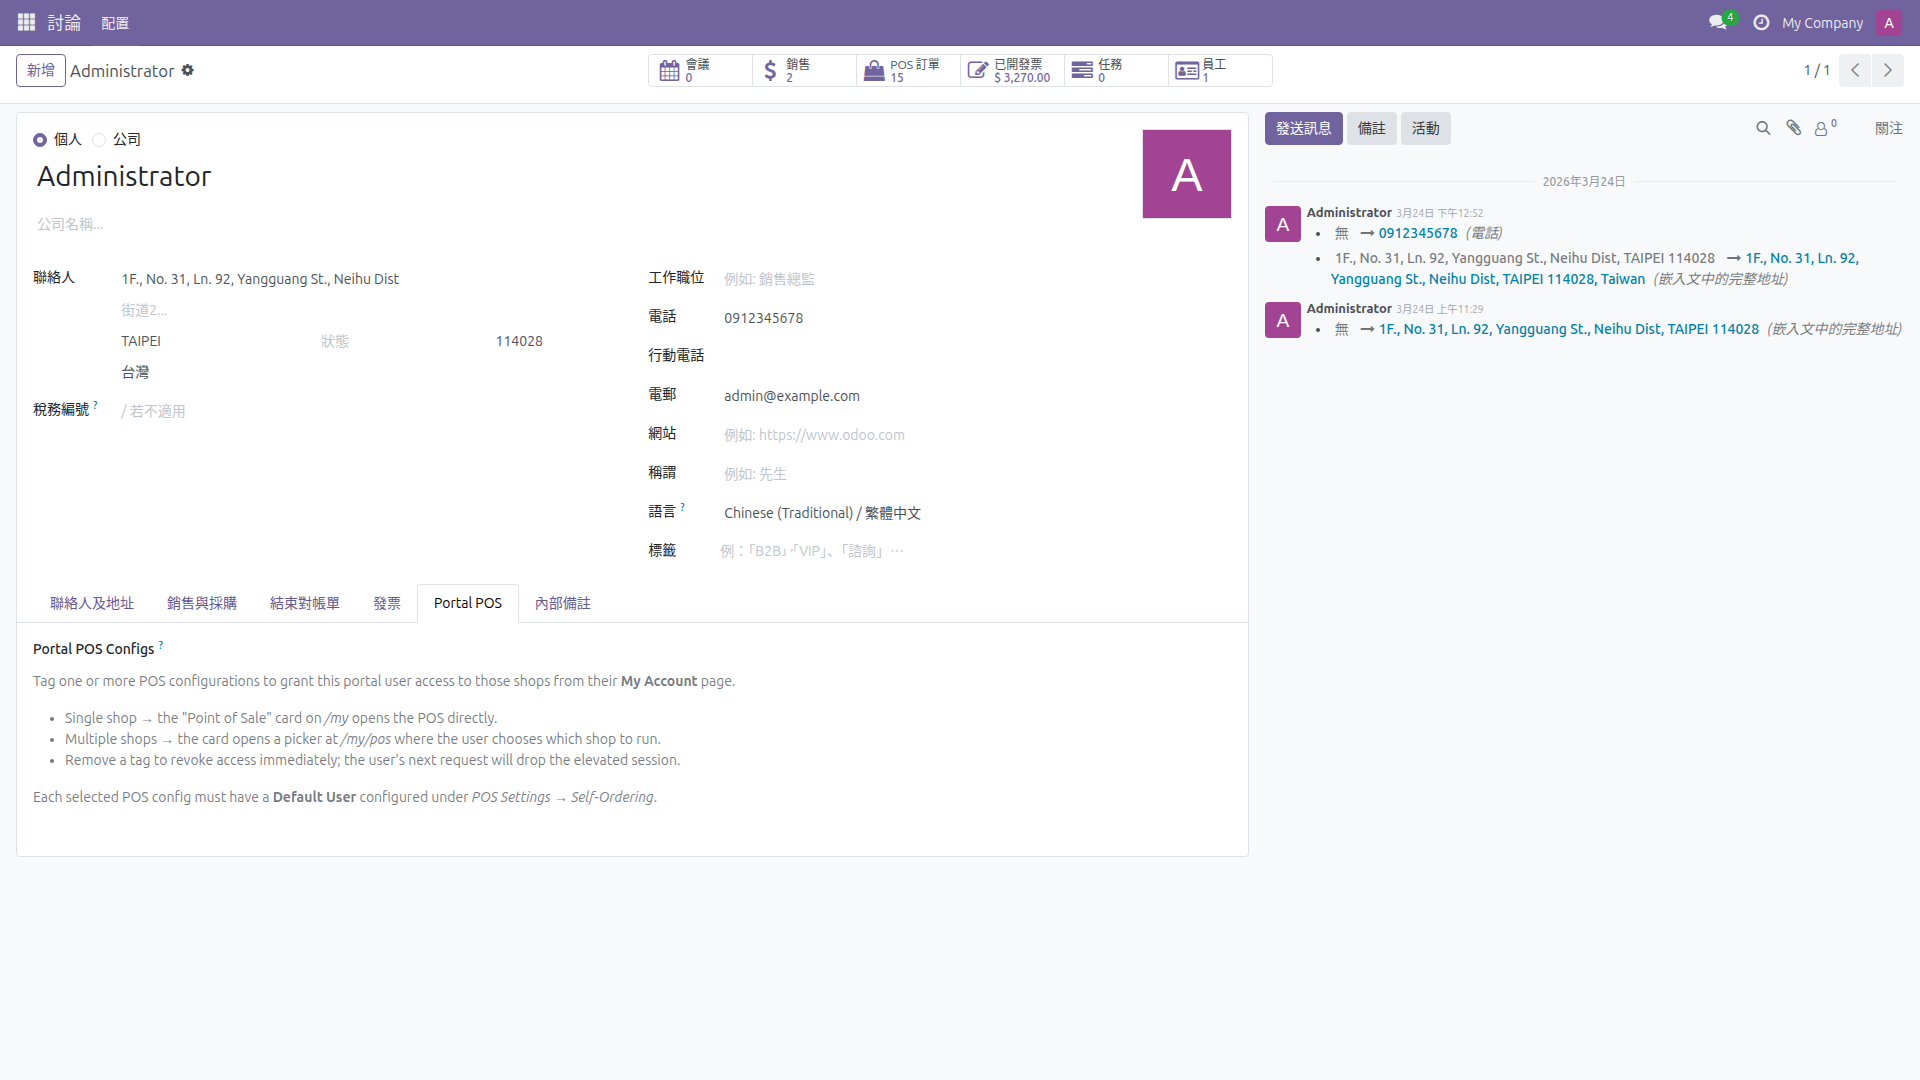
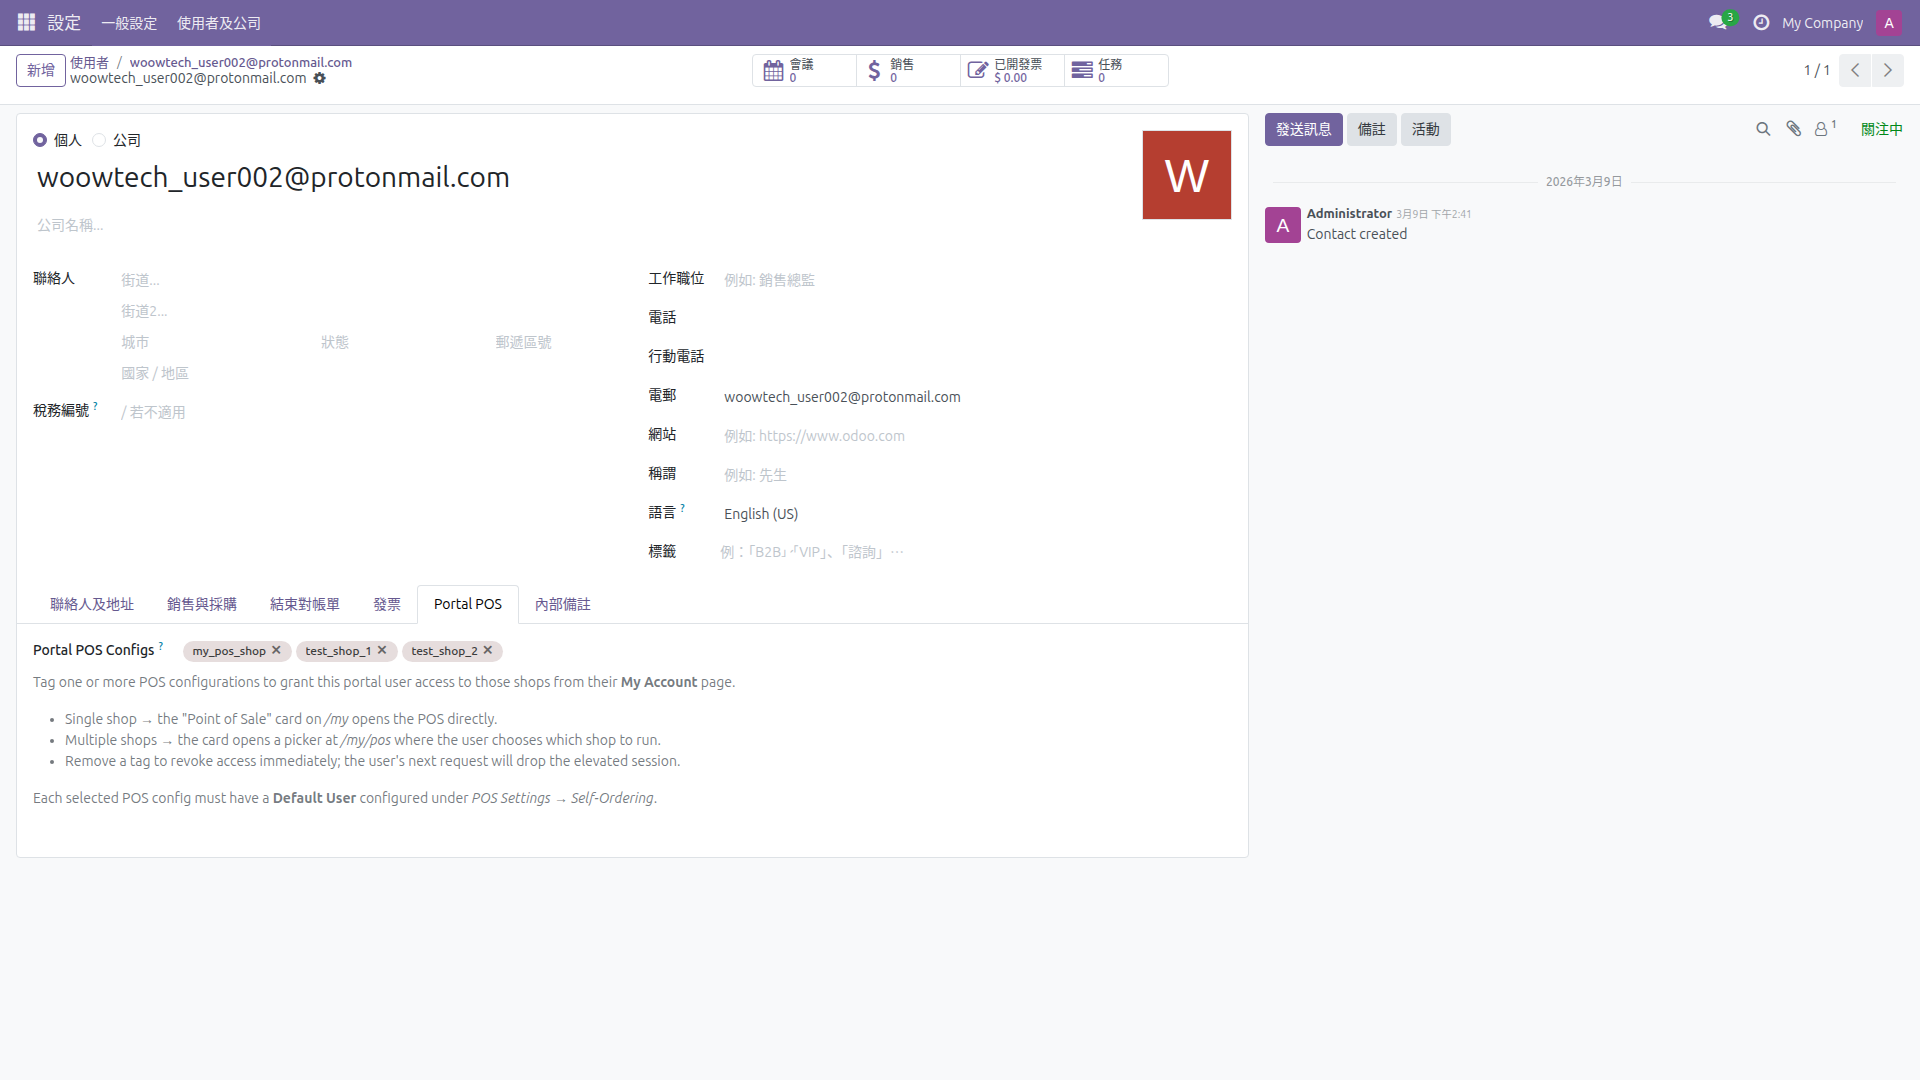
Rewrite Chapter 5: correct Portal POS setup path and screenshots
- Fix admin setup path: Settings > Users > Related Partner > Portal POS
- Replace 4 incorrect sections with 2 accurate ones (admin setup + portal user access)
- New screenshots from live Odoo: partner Portal POS tab and portal /my page
- Update Table of Contents in both manuals
- Fix appendix Portal POS assignment path

diff --git a/docs/user_manual_en.md b/docs/user_manual_en.md
@@ -44,11 +44,9 @@
   - [4.5 Auto Issuance](#45-auto-issuance)
   - [4.6 Tax ID Lookup](#46-tax-id-lookup)
   - [4.7 POS Receipt Integration](#47-pos-receipt-integration)
-- [Chapter 5: Customer Portal](#chapter-5-customer-portal)
-  - [5.1 Order History](#51-order-history)
-  - [5.2 Store Picker](#52-store-picker)
-  - [5.3 Payment Retry](#53-payment-retry)
-  - [5.4 Portal POS Cashier](#54-portal-pos-cashier)
+- [Chapter 5: Portal POS Access](#chapter-5-portal-pos-access)
+  - [5.1 Admin Setup: Grant Portal User Access to POS](#51-admin-setup-grant-portal-user-access-to-pos)
+  - [5.2 Portal User: Access POS from /my Page](#52-portal-user-access-pos-from-my-page)
 
 ---
 
@@ -980,117 +978,58 @@ Prints e-invoice data directly on ESC/POS receipts, including invoice number, ca
 
 ---
 
-## Chapter 5: Customer Portal
+## Chapter 5: Portal POS Access
 
-This chapter covers features that allow portal users (customers with Odoo portal accounts) to interact with POS orders through the website.
-
-![Portal My POS Card](screenshots/en/portal-my-pos-card.png)
+This chapter covers how to grant portal users (e.g., franchisees, partners) access to operate the POS cashier interface remotely through the Odoo portal.
 
 ---
 
-### 5.1 Order History
+### 5.1 Admin Setup: Grant Portal User Access to POS
 
-Portal users can view their past POS orders from the customer portal.
-
-![Portal Home](screenshots/en/portal-my-pos-card.png)
+Administrators assign POS shop access to portal users through the user's related partner record.
 
 **Setup**
 
-1. Ensure the customer has a portal user account in Odoo.
-2. No additional configuration is needed. The order history is available by default once the module is installed.
+1. Navigate to **Settings > Users & Companies > Users**.
+2. Select the portal user (e.g., `woowtech_user002@protonmail.com`).
+3. Click the **Related Partner** button (at the top of the user form) to open the partner record.
+4. Click the **Portal POS** tab.
+5. In the **Portal POS Configs** field, add the POS configuration(s) this user should have access to.
+6. Click **Save**.
 
-**Usage**
+![Partner Portal POS Tab](screenshots/en/partner-portal-pos.png)
 
-- The customer logs into the Odoo portal at `/my`.
-- A **Point of Sale** card appears on the portal home page.
-- Clicking it shows a list of the customer's past POS orders with details such as date, items, and total amount.
+> **Important:** Each POS configuration must have a **Default User** set under **Point of Sale > Configuration > Settings > Mobile self-order & Kiosk**. This internal user's permissions are used when the portal user operates the POS.
 
 **Troubleshooting**
 
-- If the Point of Sale card does not appear in the portal, verify the module is installed and the user has portal access.
-- Customers can only see orders associated with their partner record. If orders are missing, check that the order's partner matches the portal user.
+- If the **Portal POS** tab does not appear on the partner form, verify that the `pos_self_order_enhancement` module is installed.
+- If no POS configurations appear in the dropdown, ensure at least one POS shop exists and is active.
+- The portal user must have an active portal account (not just a contact record).
 
 ---
 
-### 5.2 Store Picker
+### 5.2 Portal User: Access POS from /my Page
 
-Enables multi-location support by allowing administrators to assign specific POS configurations (shops) to individual portal users. Customers access a store picker page to choose their shop.
-
-**Setup**
-
-1. Open the **Contacts** app (or navigate to the URL `/odoo/contacts`) and open the partner (customer) record.
-2. Go to the **Portal POS** tab.
-3. Assign one or more POS configurations to this partner.
-4. Save.
-
-![Partner Portal POS](screenshots/en/partner-portal-pos.png)
+After the administrator grants access, the portal user can log in and access the POS cashier interface from the portal home page.
 
 **Usage**
 
-- When a customer with multiple assigned shops visits `/my/pos`, they see a store picker page.
-- The customer selects the shop they want to order from.
-- They are redirected to the POS cashier interface for that shop.
+1. The portal user logs in to the Odoo website (e.g., `https://your-odoo.com/web/login`).
+2. After login, the user is redirected to the `/my` portal home page.
+3. A **Point of Sale** card appears on the portal home page showing the assigned shop(s).
+4. **Single shop assigned:** Clicking the card opens the POS cashier interface directly.
+5. **Multiple shops assigned:** Clicking the card opens a store picker page at `/my/pos` where the user selects which shop to operate.
+6. The full POS cashier interface loads. The portal user can take orders, process payments, and perform all standard POS operations.
+
+![Portal Home with POS Card](screenshots/en/portal-my-pos-card.png)
 
 **Troubleshooting**
 
-- If the store picker does not appear, verify that the partner has at least one POS config assigned in the Portal POS tab.
-- If a customer should have access to a shop but it does not appear, check the partner's Portal POS assignments.
-- The store picker shows all active POS configurations assigned to the partner.
-
----
-
-### 5.3 Payment Retry
-
-Allows portal users to retry failed online payments for their POS orders directly from the portal.
-
-![Portal Home](screenshots/en/portal-my-pos-card.png)
-
-**Setup**
-
-1. No additional configuration is needed. This feature is available when Pay Per Order mode is active and the customer has a portal account.
-
-**Usage**
-
-- If an online payment fails during the self-order checkout, the order remains in a pending state.
-- The customer logs into the portal and navigates to their POS orders.
-- The failed order shows a **Retry Payment** option.
-- The customer clicks it and is redirected to the payment page to attempt the payment again.
-
-**Troubleshooting**
-
-- If the retry option does not appear, verify that the order is in a pending payment state (not already paid or cancelled).
-- Ensure the payment provider is still active and properly configured.
-- If payment continues to fail, the issue may be with the payment provider or the customer's payment method.
-
----
-
-### 5.4 Portal POS Cashier
-
-Allows portal users to operate the full POS cashier interface from the website, with access controlled by per-partner shop assignment.
-
-![Partner Portal POS](screenshots/en/partner-portal-pos.png)
-
-**Setup**
-
-1. Navigate to **Point of Sale > Configuration > Settings**.
-2. Under **Mobile self-order & Kiosk**, set the **Default User** for the POS config. This is the Odoo user whose permissions will be used when portal users operate the POS.
-3. Open the **Contacts** app (or navigate to the URL `/odoo/contacts`) and open the partner record.
-4. In the **Portal POS** tab, assign the POS configurations this partner should be able to operate.
-5. Save.
-
-**Usage**
-
-- The portal user logs in and navigates to the assigned POS shop.
-- Instead of the self-order kiosk view, they access the full POS cashier interface.
-- They can take orders, process payments, and perform all standard POS operations.
-- Their actions are executed under the permissions of the Default User configured on the POS config.
-
-**Troubleshooting**
-
-- If the portal user cannot access the POS cashier, verify that a Default User is set on the POS config.
-- Ensure the partner has the POS config assigned in the Portal POS tab.
-- The Default User must have sufficient permissions to operate the POS (typically an internal user with POS access rights).
-- If the POS interface loads but operations fail, check the Default User's permissions in Odoo.
+- If the **Point of Sale** card does not appear on `/my`, verify that the administrator has assigned POS configuration(s) to the user's partner record (see section 5.1).
+- If clicking the card shows "Access Denied", ensure the POS configuration has a **Default User** set under Settings > Mobile self-order & Kiosk.
+- If the POS interface loads but operations fail, check that the Default User has sufficient POS permissions (typically an internal user with full POS access rights).
+- If the portal user sees a blank page, clear the browser cache and try again.
 
 ---
 
@@ -1105,7 +1044,7 @@ Allows portal users to operate the full POS cashier interface from the website, 
 | E-Invoice Enable | POS Config > Taiwan E-Invoice |
 | Printer Setup | Settings > Preparation > Printers |
 | Hold & Fire Category | Configuration > PoS Product Categories |
-| Portal POS Assignment | Contacts app > Partner > Portal POS tab |
+| Portal POS Assignment | Settings > Users > select user > Related Partner > Portal POS tab |
 | ECPay Credentials | Settings > Accounting > ECPay E-Invoice |
 
 ### Feature Activation Summary
@@ -1115,7 +1054,7 @@ Allows portal users to operate the full POS cashier interface from the website, 
 | Remove Cancel Button | Auto-enabled |
 | Continue Ordering | Auto-enabled |
 | Pay Per Order | Manual: Pay After = Each Order |
-| Pay at Counter | Auto-enabled when Pay Per Order active |
+| Pay at Counter | Available in both payment modes |
 | Friendly Payment Page | Auto-enabled |
 | Hide Tax Display | Auto-enabled |
 | Sold Out (86) | Manual: toggle per product in POS |
@@ -1123,4 +1062,4 @@ Allows portal users to operate the full POS cashier interface from the website, 
 | Hold & Fire | Manual: enable per category |
 | Network Printing | Manual: add printer in POS Config |
 | E-Invoice | Manual: enable in POS Config + credentials |
-| Portal Features | Manual: assign POS configs to partners |
+| Portal POS Access | Manual: assign POS configs via Users > Related Partner > Portal POS |

diff --git a/docs/user_manual_zh-TW.md b/docs/user_manual_zh-TW.md
@@ -44,11 +44,9 @@
   - [4.5 自動開立](#45-自動開立)
   - [4.6 統編查詢](#46-統編查詢)
   - [4.7 POS 收據整合](#47-pos-收據整合)
-- [第五章：顧客入口](#第五章顧客入口)
-  - [5.1 訂單記錄](#51-訂單記錄)
-  - [5.2 店鋪選擇](#52-店鋪選擇)
-  - [5.3 重新付款](#53-重新付款)
-  - [5.4 入口 POS 收銀](#54-入口-pos-收銀)
+- [第五章：入口 POS 存取](#第五章入口-pos-存取)
+  - [5.1 管理員設定：授權入口使用者存取 POS](#51-管理員設定授權入口使用者存取-pos)
+  - [5.2 入口使用者：從 /my 頁面存取 POS](#52-入口使用者從-my-頁面存取-pos)
 
 ---
 
@@ -936,112 +934,58 @@ POS 付款完成後自動開立電子發票，無需員工手動操作。
 
 ---
 
-## 第五章：顧客入口
+## 第五章：入口 POS 存取
 
-本章涵蓋顧客入口（Portal）的四項功能。讓入口使用者（Portal User）透過 `/my` 頁面管理 POS 訂單。
-
-![合作夥伴 Portal POS 設定](screenshots/zh-TW/partner-portal-pos.png)
+本章說明如何授權入口使用者（例如：加盟店、合作夥伴）透過 Odoo 入口網站操作 POS 收銀介面。
 
 ---
 
-### 5.1 訂單記錄
+### 5.1 管理員設定：授權入口使用者存取 POS
 
-入口使用者可在 `/my` 頁面檢視自己的 POS 歷史訂單。
-
-![入口首頁](screenshots/zh-TW/portal-my-pos-card.png)
+管理員透過使用者的相關合作夥伴記錄來指派 POS 店鋪存取權限。
 
 **設定**
 
-1. 確認使用者帳號為入口使用者（Portal User）。
-2. 安裝模組後自動啟用。
+1. 前往 **設定 > 使用者與公司 > 使用者**。
+2. 選擇入口使用者（例如：`woowtech_user002@protonmail.com`）。
+3. 點擊上方的**相關的合作夥伴**按鈕，開啟合作夥伴記錄。
+4. 點擊 **Portal POS** 分頁。
+5. 在「**Portal POS Configs**」欄位中，新增該使用者可存取的 POS 設定。
+6. 點擊**儲存**。
 
-**使用方式**
+![合作夥伴 Portal POS 分頁](screenshots/zh-TW/partner-portal-pos.png)
 
-1. 入口使用者登入後前往 `/my` 頁面。
-2. 在「Point of Sale」區段可查看所有歷史訂單。
-3. 點擊訂單可檢視訂單明細、金額、付款狀態等資訊。
+> **重要提示：** 每個 POS 設定必須在 **POS營業點 > 配置 > 設定 > 手機自助下單及自助點餐機** 中設定「**預設使用者**」。入口使用者操作 POS 時將使用此內部使用者的權限。
 
 **疑難排解**
 
-- 看不到 Point of Sale 區段：確認使用者帳號已設為入口使用者並具有適當權限。
-- 訂單記錄為空：確認該使用者的聯絡人已關聯至 POS 訂單。
+- 合作夥伴表單中未出現 **Portal POS** 分頁：確認 `pos_self_order_enhancement` 模組已安裝。
+- 下拉選單中無 POS 設定可選：確認至少有一個 POS 營業點存在且為啟用狀態。
+- 入口使用者必須擁有有效的入口帳號（不僅僅是聯絡人記錄）。
 
 ---
 
-### 5.2 店鋪選擇
+### 5.2 入口使用者：從 /my 頁面存取 POS
 
-在聯絡人設定中為合作夥伴指派可使用的 POS 設定（店鋪），多店鋪時入口使用者可在 `/my/pos` 從所有啟用的 POS 設定中選擇店鋪。
-
-**設定**
-
-1. 開啟聯絡人應用程式（或前往 `/odoo/contacts`）> 選擇合作夥伴。
-2. 切換至「Portal POS」分頁。
-3. 指派該合作夥伴可使用的 POS 設定（一個或多個）。
-4. 儲存設定。
+管理員授權後，入口使用者即可登入並從入口首頁存取 POS 收銀介面。
 
 **使用方式**
 
-1. 若合作夥伴被指派單一 POS 設定，登入後直接進入 POS 收銀介面。
-2. 若被指派多個 POS 設定，登入後前往 `/my/pos` 選擇要使用的店鋪，選擇後進入 POS 收銀介面。
+1. 入口使用者登入 Odoo 網站（例如：`https://your-odoo.com/web/login`）。
+2. 登入後自動導向 `/my` 入口首頁。
+3. 入口首頁上會顯示 **Point of Sale** 卡片，顯示已指派的店鋪。
+4. **僅指派單一店鋪：** 點擊卡片直接進入 POS 收銀介面。
+5. **指派多個店鋪：** 點擊卡片後進入 `/my/pos` 店鋪選擇頁面，選擇要操作的店鋪。
+6. 載入完整的 POS 收銀介面。入口使用者可執行點餐、結帳、列印收據等所有標準 POS 操作。
 
-![入口 POS 選擇頁面](screenshots/zh-TW/portal-my-pos-card.png)
-
-**疑難排解**
-
-- 入口使用者看不到 POS 選項：確認已在聯絡人的「Portal POS」分頁指派 POS 設定。
-- 多店鋪時未出現選擇頁面：確認已指派多個 POS 設定。
-
----
-
-### 5.3 重新付款
-
-入口使用者可從入口重試先前失敗的付款。
-
-![入口首頁](screenshots/zh-TW/portal-my-pos-card.png)
-
-**設定**
-
-1. 安裝模組後自動啟用。
-2. 需確保 POS 的線上付款方式已正確設定。
-
-**使用方式**
-
-1. 入口使用者在 `/my` 頁面檢視訂單記錄。
-2. 對於付款失敗的訂單，頁面顯示「重新付款」按鈕。
-3. 點擊後重新進入付款流程。
+![入口首頁 Point of Sale 卡片](screenshots/zh-TW/portal-my-pos-card.png)
 
 **疑難排解**
 
-- 未出現重新付款按鈕：確認訂單狀態為「付款失敗」或「待付款」。
-- 付款再次失敗：確認付款方式設定正確，或嘗試其他付款方式。
-
----
-
-### 5.4 入口 POS 收銀
-
-入口使用者可操作完整的 POS 收銀介面，適用於授權合作夥伴（例如：加盟店）的遠端收銀場景。
-
-![合作夥伴 Portal POS](screenshots/zh-TW/partner-portal-pos.png)
-
-**設定**
-
-1. 前往 POS營業點 > 配置 > 設定 > 手機自助下單及自助點餐機區段。
-2. 設定「預設使用者」，指定入口使用者操作 POS 時使用的內部帳號。
-3. 在聯絡人的「Portal POS」分頁中指派對應的 POS 設定（參見 5.2）。
-4. 儲存設定。
-
-**使用方式**
-
-1. 入口使用者登入後，從 `/my/pos` 選擇 POS 設定。
-2. 進入完整的 POS 收銀介面。
-3. 可執行一般 POS 操作：點餐、結帳、列印收據等。
-4. 操作權限以「預設使用者」的權限為準。
-
-**疑難排解**
-
-- 無法載入 POS 收銀介面：確認已設定「預設使用者」。
-- 權限不足：確認「預設使用者」帳號具備足夠的 POS 操作權限。
-- 頁面空白或錯誤：清除瀏覽器快取，確認 POS 設定完整（付款方式、商品等均已設定）。
+- `/my` 頁面未顯示 **Point of Sale** 卡片：確認管理員已在使用者的合作夥伴記錄中指派 POS 設定（參見 5.1）。
+- 點擊卡片出現「Access Denied」：確認 POS 設定中已設定「預設使用者」（設定 > 手機自助下單及自助點餐機）。
+- POS 介面載入但操作失敗：確認「預設使用者」具有足夠的 POS 操作權限（通常為具有完整 POS 存取權的內部使用者）。
+- 入口使用者看到空白頁面：清除瀏覽器快取後重試。
 
 ---
 
